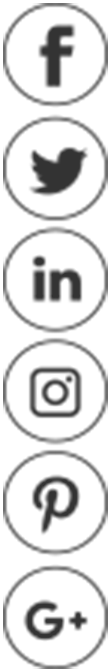
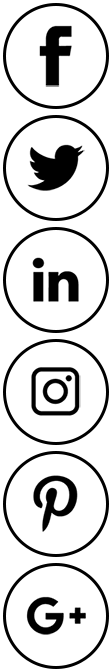
update image socials

Changed region(s): [[0.0268, 0.0, 0.9911, 1.0], [0.6161, 0.9062, 0.7768, 0.9375]]

diff --git a/beautify-la/public/content/style.css b/beautify-la/public/content/style.css
@@ -4859,23 +4859,25 @@ div.placeholder-custom {
           margin-left: 2%; } }
   .link-social .icon {
     display: inline-block;
-    width: 37px;
-    height: 37px;
+    width: 30px;
+    height: 30px;
     background: url(images/ui/pages/company/list/icon_socials.png) no-repeat;
-    background-size: 37px; }
+    background-size: 30px; }
     @media only screen and (-webkit-min-device-pixel-ratio: 1.25) and (min-width: 320px), only screen and (min--moz-device-pixel-ratio: 1.25) and (min-width: 320px), only screen and (min-device-pixel-ratio: 1.25) and (min-width: 320px), only screen and (min-resolution: 120dpi) and (min-width: 320px), only screen and (-webkit-min-device-pixel-ratio: 2) and (min-width: 320px), only screen and (min-resolution: 2dppx) and (min-width: 320px) {
       .link-social .icon {
         background-image: url(images/ui/pages/company/list/icon_socials@3x.png); } }
     .link-social .icon.icon-facebook {
       background-position: center 0; }
     .link-social .icon.icon-twitter {
-      background-position: center -37px; }
+      background-position: center -30px; }
     .link-social .icon.icon-linkedin {
-      background-position: center -74px; }
+      background-position: center -60px; }
     .link-social .icon.icon-instagram {
-      background-position: center -111px; }
+      background-position: center -90px; }
     .link-social .icon.icon-pinterest {
-      background-position: center -148px; }
+      background-position: center -120px; }
+    .link-social .icon.icon-google-plus {
+      background-position: center -150px; }
 
 .social_twitter {
   margin: 24px 0 30px;

diff --git a/beautify-la/src/assets/css/sass/pages/company/list/_socials.scss b/beautify-la/src/assets/css/sass/pages/company/list/_socials.scss
@@ -45,10 +45,10 @@
 
     .icon {
         display: inline-block;
-        width: 37px;
-        height: 37px;
+        width: 30px;
+        height: 30px;
         background: url(images/ui/pages/company/list/icon_socials.png) no-repeat;
-        background-size: 37px;
+        background-size: 30px;
 
         @media
         only screen and (-webkit-min-device-pixel-ratio:1.25)      and (min-width:320px),
@@ -63,17 +63,25 @@
         &.icon-facebook {
             background-position: center 0;
         }
+
         &.icon-twitter {
-            background-position: center -37px;
+            background-position: center -30px;
         }
+
         &.icon-linkedin {
-            background-position: center -74px;
+            background-position: center -60px;
         }
+
         &.icon-instagram {
-            background-position: center -111px;
+            background-position: center -90px;
         }
+
         &.icon-pinterest {
-            background-position: center -148px;
+            background-position: center -120px;
+        }
+
+        &.icon-google-plus {
+            background-position: center -150px;
         }
     }
 }

diff --git a/beautify-la/public/company-list-2.html b/beautify-la/public/company-list-2.html
@@ -277,6 +277,7 @@
                                     <li><a title="" href="" class="icon icon-linkedin"></a></li>
                                     <li><a title="" href="" class="icon icon-instagram"></a></li>
                                     <li><a title="" href="" class="icon icon-pinterest"></a></li>
+                                    <li><a title="" href="" class="icon icon-google-plus"></a></li>
                                 </ul>
                                 <!-- .social_twitter -->
                                 <div class="social_twitter hidden-xs">

diff --git a/beautify-la/public/company-list.html b/beautify-la/public/company-list.html
@@ -273,6 +273,7 @@
                                     <li><a title="" href="" class="icon icon-linkedin"></a></li>
                                     <li><a title="" href="" class="icon icon-instagram"></a></li>
                                     <li><a title="" href="" class="icon icon-pinterest"></a></li>
+                                    <li><a title="" href="" class="icon icon-google-plus"></a></li>
                                 </ul>
                                 <!-- .social_twitter -->
                                 <div class="social_twitter hidden-xs">

diff --git a/beautify-la/src/views/content/pages/company/list/socials.html b/beautify-la/src/views/content/pages/company/list/socials.html
@@ -4,4 +4,5 @@
     <li><a title="" href="" class="icon icon-linkedin"></a></li>
     <li><a title="" href="" class="icon icon-instagram"></a></li>
     <li><a title="" href="" class="icon icon-pinterest"></a></li>
+    <li><a title="" href="" class="icon icon-google-plus"></a></li>
 </ul>
